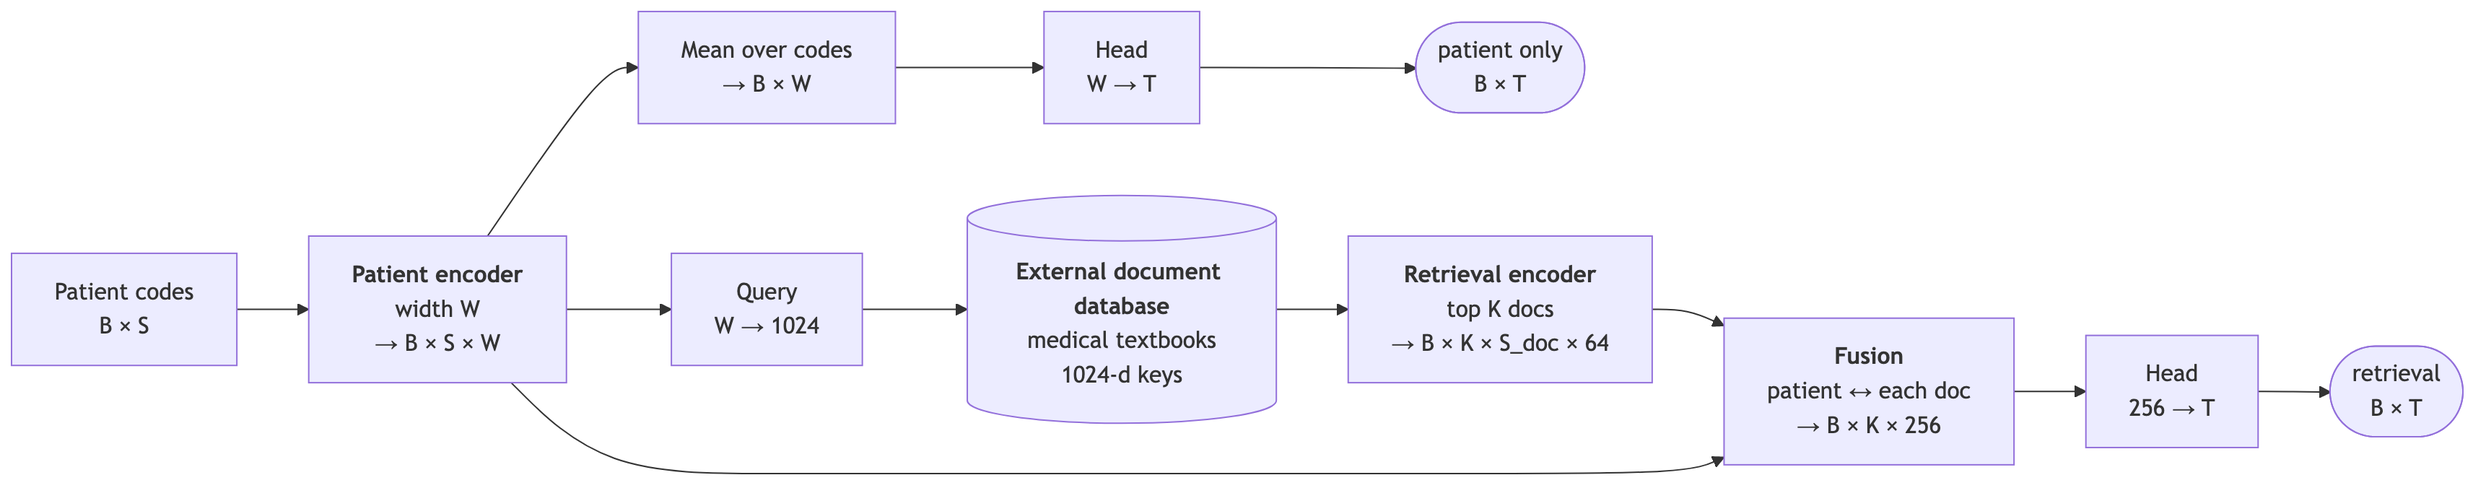
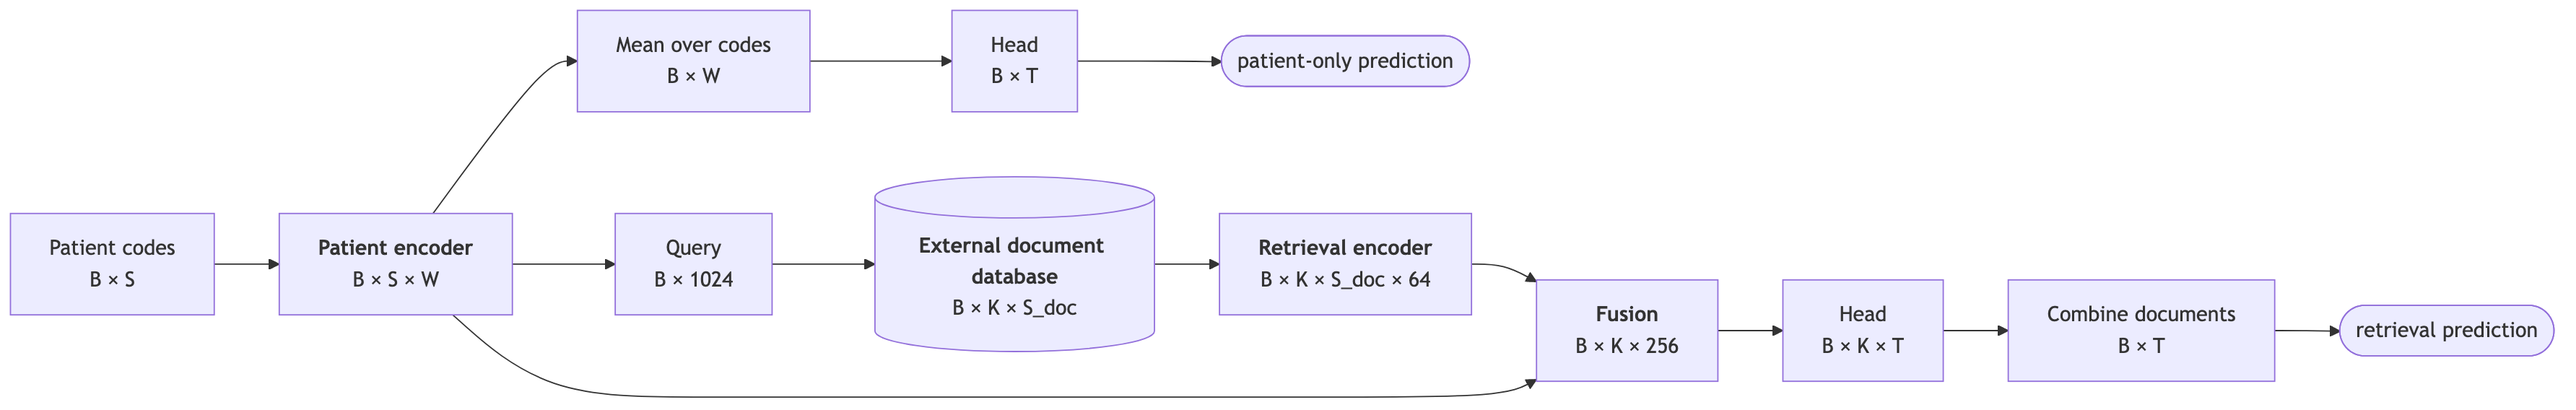
docs(scaling_laws): one output shape per architecture box

diff --git a/scaling_laws/design.md b/scaling_laws/design.md
@@ -6,6 +6,8 @@ Keep things simple and clean: start small, add detail only when it's needed.
 
 ![Model architecture](architecture.png)
 
+Each box shows the shape of its output.
+
 Source: [`architecture.mmd`](architecture.mmd) (Mermaid). After editing it, re-render with
 `npx -y @mermaid-js/mermaid-cli -i architecture.mmd -o architecture.png -w 1800 -s 2 -b white`.
 
